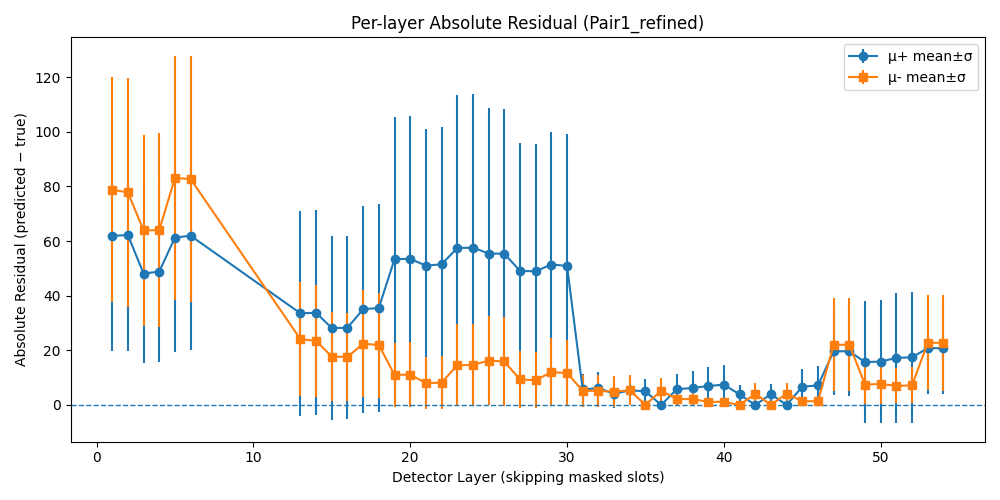
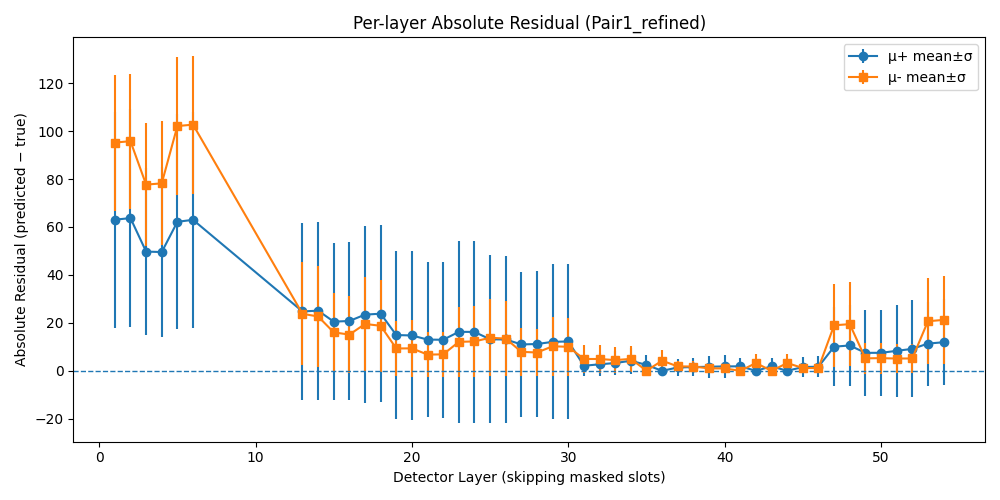
fix: multi-track finder improvement and bug fix

diff --git a/QTracker_training/eval_multi_track.py b/QTracker_training/eval_multi_track.py
@@ -57,7 +57,7 @@ def chi_squared(y_true, y_pred):
     return chi2_mean
 
 
-def match_predictions(y_test, y_pred_argmax, mask, max_pairs):
+def match_predictions(y_test, y_pred_argmax, mask):
     """Reorder predicted pair slots per event to best match the active GT pairs.
 
     For each event we restrict to the active GT pairs (slots with any nonzero
@@ -67,44 +67,48 @@ def match_predictions(y_test, y_pred_argmax, mask, max_pairs):
         cost(p, g) = sum_{unmasked det} |pred_p - gt_g| for mu+
                    + sum_{unmasked det} |pred_p - gt_g| for mu-
 
-    We enumerate all permutations of ``range(max_pairs)`` and pick the one
-    minimizing the total cost over the active GT slots. The chosen permutation
-    is applied so the predicted slot matched to GT rank ``k`` lands at index
-    ``k``. This prevents penalizing a correctly-found pair that appears in a
-    different slot order. The returned (permuted) argmax predictions can be
-    reused unchanged when computing refined predictions.
+    We enumerate permutations of predicted slots and pick the one minimizing
+    the total cost over the active GT slots. The chosen permutation is applied
+    so the predicted slot matched to GT rank ``k`` lands at index ``k``.
+    GT and model pair-slot counts may differ (e.g. 3-pair GT vs 5-pair model).
     """
     matched = y_pred_argmax.copy()
     det_idx = np.where(mask)[0]
-    perms = list(itertools.permutations(range(max_pairs)))
 
     for ev in range(len(y_test)):
+        gt = y_test[ev].astype(np.int32)  # (n_gt, 2, 62)
+        pred = y_pred_argmax[ev]  # (n_pred, 2, 62)
+        n_gt = gt.shape[0]
+        n_pred = pred.shape[0]
+
         n_active = max(
-            (k + 1 for k in range(max_pairs) if np.any(y_test[ev, k] != 0)),
+            (k + 1 for k in range(n_gt) if np.any(gt[k] != 0)),
             default=0,
         )
         if n_active <= 1:
             continue
 
-        gt = y_test[ev].astype(np.int32)  # (max_pairs, 2, 62)
-        pred = y_pred_argmax[ev]  # (max_pairs, 2, 62)
+        n_match = min(n_active, n_pred)
 
-        cost = np.zeros((max_pairs, max_pairs))
-        for p in range(max_pairs):
-            for g in range(n_active):
+        cost = np.zeros((n_pred, n_match))
+        for p in range(n_pred):
+            for g in range(n_match):
                 c_plus = np.sum(np.abs(pred[p, 0, det_idx] - gt[g, 0, det_idx]))
                 c_minus = np.sum(np.abs(pred[p, 1, det_idx] - gt[g, 1, det_idx]))
                 cost[p, g] = c_plus + c_minus
 
         best_perm = None
         best_cost = None
-        for perm in perms:
-            total = sum(cost[perm[k], k] for k in range(n_active))
+        for perm in itertools.permutations(range(n_pred), n_match):
+            total = sum(cost[perm[k], k] for k in range(n_match))
             if best_cost is None or total < best_cost:
                 best_cost = total
                 best_perm = perm
 
-        matched[ev] = pred[list(best_perm)]
+        reordered = pred.copy()
+        for k in range(n_match):
+            reordered[k] = pred[best_perm[k]]
+        matched[ev] = reordered
 
     return matched
 
@@ -190,13 +194,23 @@ def evaluate_model(args):
 
     # Extract argmax predictions
     y_pred_argmax = np.argmax(y_pred, axis=-1).astype(np.int32)
-    # Shape: (num_events, max_pairs, 2, 62)
+    # Shape: (num_events, pred_max_pairs, 2, 62)
+
+    gt_max_pairs = y_test.shape[1]
+    pred_max_pairs = y_pred_argmax.shape[1]
+    if gt_max_pairs != pred_max_pairs:
+        print(
+            f"WARNING: GT has {gt_max_pairs} pair slots but model outputs "
+            f"{pred_max_pairs}. Evaluating the first "
+            f"{min(gt_max_pairs, pred_max_pairs)} pair(s)."
+        )
+    eval_max_pairs = min(gt_max_pairs, pred_max_pairs)
 
     # Reorder predicted pair slots per event to best match the active GT pairs
-    y_pred_argmax = match_predictions(y_test, y_pred_argmax, mask, max_pairs)
+    y_pred_argmax = match_predictions(y_test, y_pred_argmax, mask)
 
     # Evaluate each pair
-    for pair_idx in range(max_pairs):
+    for pair_idx in range(eval_max_pairs):
         print(f"\n{'=' * 70}")
         print(f"Evaluating Pair {pair_idx}")
         print(f"{'=' * 70}")
